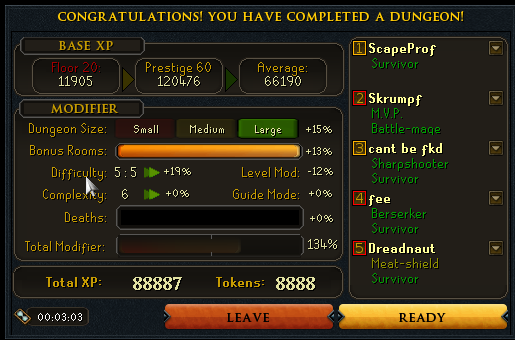
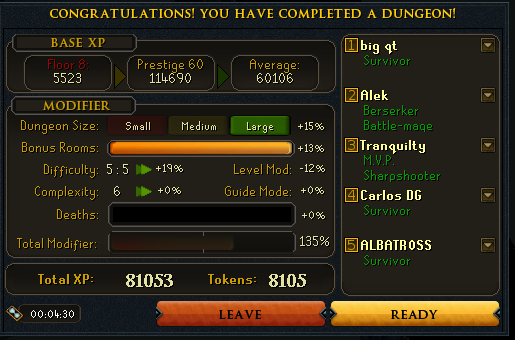
Added floor retrieval

Changed region(s): [[0.0, 0.0, 1.0, 1.0]]

diff --git a/cogs/winterfaceReader.py b/cogs/winterfaceReader.py
@@ -97,6 +97,10 @@ class winterfaceReader(commands.Cog):
                     "time":{"name":"rect","x":32,"y":306,"width":47,"height":12}
                 }
 
+                themeCoordinates = {
+                    "floor":{"name":"rect","x":44,"y":54,"width":54,"height":15}
+                }
+
                 (width,height) = image.width, image.height
                 # print (width)
                 # print (height)
@@ -111,16 +115,22 @@ class winterfaceReader(commands.Cog):
                     fname = "times/" + str(counter) + str(k) + ".png"
                     im.save(fname)
 
+                for k,v in themeCoordinates.items():
+                    im = image.crop((v["x"], v["y"], v["x"] + v["width"], v["y"] + v["height"]))
+                    fname = "floor/" + str(counter) + str(k) + ".png"
+                    im.save(fname)
+
                 names = self.findNames(ctx)
                 print(names)
                 str(names)
                 time = self.findTime(ctx)
+                theme = self.findTheme(ctx)
                 print(time)
 
                 # upload data to DB
-                self.uploadToDB(playerOne = names[0], playerTwo = names[1], playerThree = names[2], playerFour = names[3], playerFive = names[4], theme = 'Frozen', endTime = time) # frozen hard coded for now
+                # self.uploadToDB(playerOne = names[0], playerTwo = names[1], playerThree = names[2], playerFour = names[3], playerFive = names[4], theme = 'Frozen', endTime = time) # frozen hard coded for now
 
-                embed = self.generateEmbed(names,time)
+                embed = self.generateEmbed(names,time,theme)
                 message = await ctx.send(embed=embed)
                 await message.add_reaction("\U00002705")
                 await message.add_reaction("\U0000274C")
@@ -131,13 +141,14 @@ class winterfaceReader(commands.Cog):
             print(e)
             traceback.print_exc(file=sys.stdout)
 
-    def generateEmbed(self,names,time):
+    def generateEmbed(self,names,time,theme):
         embed = discord.Embed(title="Winterface Data")
         counter = 1
         for x in names:
             embed.add_field(name="Player " + str(counter), value=x, inline=False)
             counter = counter + 1
         embed.add_field(name="Time",value=time,inline=False)
+        embed.add_field(name="Theme",value=theme,inline=False)
         return embed
 
     def is_url_image(self,url):    
@@ -392,6 +403,153 @@ class winterfaceReader(commands.Cog):
             low_contrast_mask = np.absolute(image - blurred) < threshold
             np.copyto(sharpened, image, where=low_contrast_mask)
         return sharpened
+
+    def findTheme(self,ctx):
+        def equal(im1, im2):
+            return ImageChops.difference(im1, im2).getbbox() is None
+
+        def fuzzyEqual(im1,im2):
+            im1 = np.array(im1)
+            im2 = np.array(im2)
+            err = np.sum((im1.astype("float") - im2.astype("float")) ** 2)
+            err /= float(im1.shape[0] * im1.shape[1])
+            return err 
+
+        def findRow(zero,time,charName):
+            (glwidth,glheight) = zero.width, zero.height
+            (twidth,theight) = time.width, time.height
+            for x in range(twidth - glwidth):
+                for y in range(theight - glheight ):
+                    im = time.crop((x, y, x + glwidth, y + glheight))
+                    # im.save("test/" + str(x) + " " + str(y) +".png")
+                    # if equal(im,zero):
+                    # print (fuzzyEqual(im,zero))
+                    
+                    if fuzzyEqual(im,zero) < 0.05:
+                        # print ("match found at ",x,y)
+                        # print (fuzzyEqual(im,zero))
+                        charDict= {"character":charName,"charLength":glwidth}
+                        fullTime[x] = charDict
+                        mainX = x
+                        mainY = y
+                        im.save("test/" + str(x) + " " + str(y) + ".png")
+                        return True,mainX, mainY
+            mainX = 0
+            mainY = 0
+            return False,mainX, mainY
+
+        def decoder(fullTime):
+            print (fullTime)
+            timeDictList = (sorted(fullTime))
+            print ("timeDictList",timeDictList)
+            timeStr = ""
+            for x in timeDictList:
+                timeStr = timeStr + str(fullTime[x]["character"])
+            return int(timeStr)
+
+        def findNonZeros(filepath,fullTime,glwidth,glheight,k):
+            zero = Image.open(filepath)
+            zero = zero.convert('1')
+            (glwidth,glheight) = zero.width, zero.height
+            for x in range(0,twidth - glwidth + 1):
+                im = time.crop((x, rowY, x + glwidth, rowY + glheight))
+                if fuzzyEqual(im,zero) < 0.05:
+                    charDict= {"character":k,"charLength":glwidth}
+                    fullTime[x] = charDict
+            return fullTime
+
+
+        floorChars = {
+            1:"floorGlyph/floor1.png",
+            2:"floorGlyph/floor2.png",
+            3:"floorGlyph/floor3.png",
+            4:"floorGlyph/floor4.png",
+            5:"floorGlyph/floor5.png",
+            6:"floorGlyph/floor6.png",
+            7:"floorGlyph/floor7.png",
+            8:"floorGlyph/floor8.png",
+            9:"floorGlyph/floor9.png",
+            0:"floorGlyph/floor0.png"
+        }    
+
+        times = []
+        for file in os.listdir("./floor"):
+            times.append(file)
+
+        print (times)
+
+        for t in times:
+            fullTime = {}
+            fname = "floor/" + t
+            print (fname)
+            time = Image.open(fname)
+            zero = Image.open("glypths/time0.png")
+            
+            datas = time.getdata()
+
+            new_image_data = []
+            for item in datas:
+                # change all white (also shades of whites) pixels to yellow
+                if item[0] == 160:
+                    new_image_data.append((198, 155, 1))
+                else:
+                    new_image_data.append(item)
+            
+            time.putdata(new_image_data)
+
+            enhancer = ImageEnhance.Contrast(time)
+            time = enhancer.enhance(2)
+
+            (glwidth,glheight) = zero.width, zero.height
+            (twidth,theight) = time.width, time.height
+
+            # print (twidth,theight)
+
+            time = time.convert('1')
+            time.save("ahh/" + t + "test.png")
+            # rowX,rowY = (findRow(zero,time))
+            
+            foundChar = "Not Found"
+            matchFound = False
+            for k,v in floorChars.items():
+                # print ("trying:",k)
+                zero = Image.open(v)
+                zero = zero.convert('1')
+                matchFound,rowX,rowY = (findRow(zero,time,k))
+                if matchFound == True:
+                    fullTime[rowX] = k
+                    break
+
+            print (matchFound,rowX,rowY,fullTime)
+
+            # if rowX == 0:
+            #     print ("Couldn't find time")
+            #     continue
+
+            # for x in range(rowX + 1,twidth - glwidth + 1):
+            #     im = time.crop((x, rowY, x + glwidth, rowY + glheight))
+            #     if equal(im,zero):
+            #         fullTime[x] = 0
+
+            # breakAt = 0
+            for k,v in floorChars.items():
+                fullTime = findNonZeros(v,fullTime,glwidth,glheight,k)
+                # print (fullTime)
+            decoded = (decoder(fullTime))
+            if decoded in range(0,12):
+                return "Frozen"
+            elif decoded in range(12,18):
+                return "Abandoned 1"
+            elif decoded in range(18,30):
+                return "Furnished"
+            elif decoded in range(30,36):
+                return "Abandoned 2"
+            elif decoded in range(36,48):
+                return "Occult"
+            elif decoded in range(48,61):
+                return "Warped"
+
+
 
     def findTime(self,ctx):
         def equal(im1, im2):
